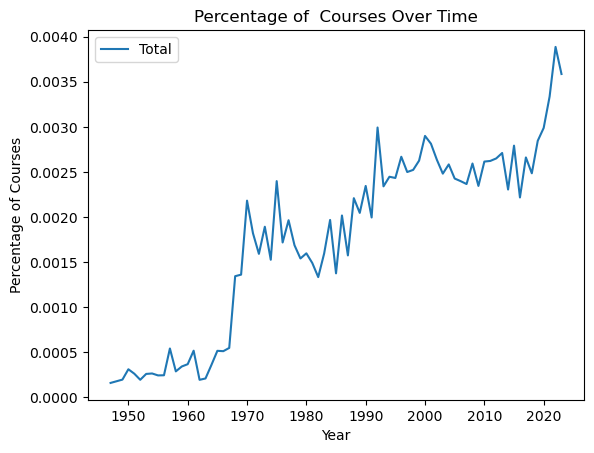
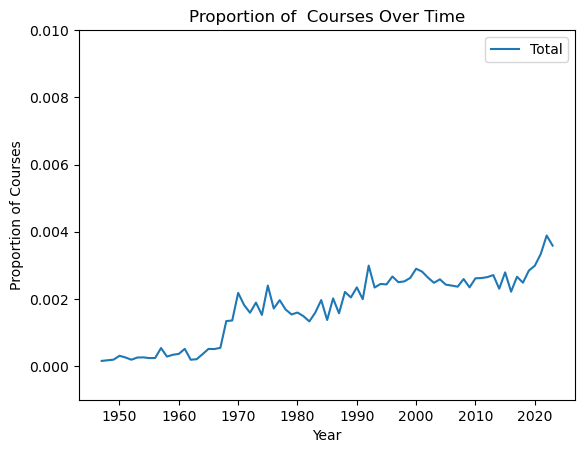
second batch of redone regex figs

diff --git a/source/regex_search.py b/source/regex_search.py
@@ -497,7 +497,7 @@ class KeyWordListSearchAgent:
             
 
         if percentage == True:
-            metric = 'Percentage'
+            metric = 'Proportion'
 
             for year in years:
                 keyword_ghost_df = time_df[time_df['start_yr'] == year]
@@ -550,7 +550,7 @@ class KeyWordListSearchAgent:
                 plt.show()
 
             elif show_by_type==False:
-                plt.plot(years, alls, label=f'Total')
+                plt.plot(years, alls, c='tab:blue', label=f'Total')
                 plt.xlabel('Year')
                 plt.ylabel(f'{metric} of Courses')
                 plt.title(f'{metric} of {category} Courses Over Time' + str(IPEDS))
